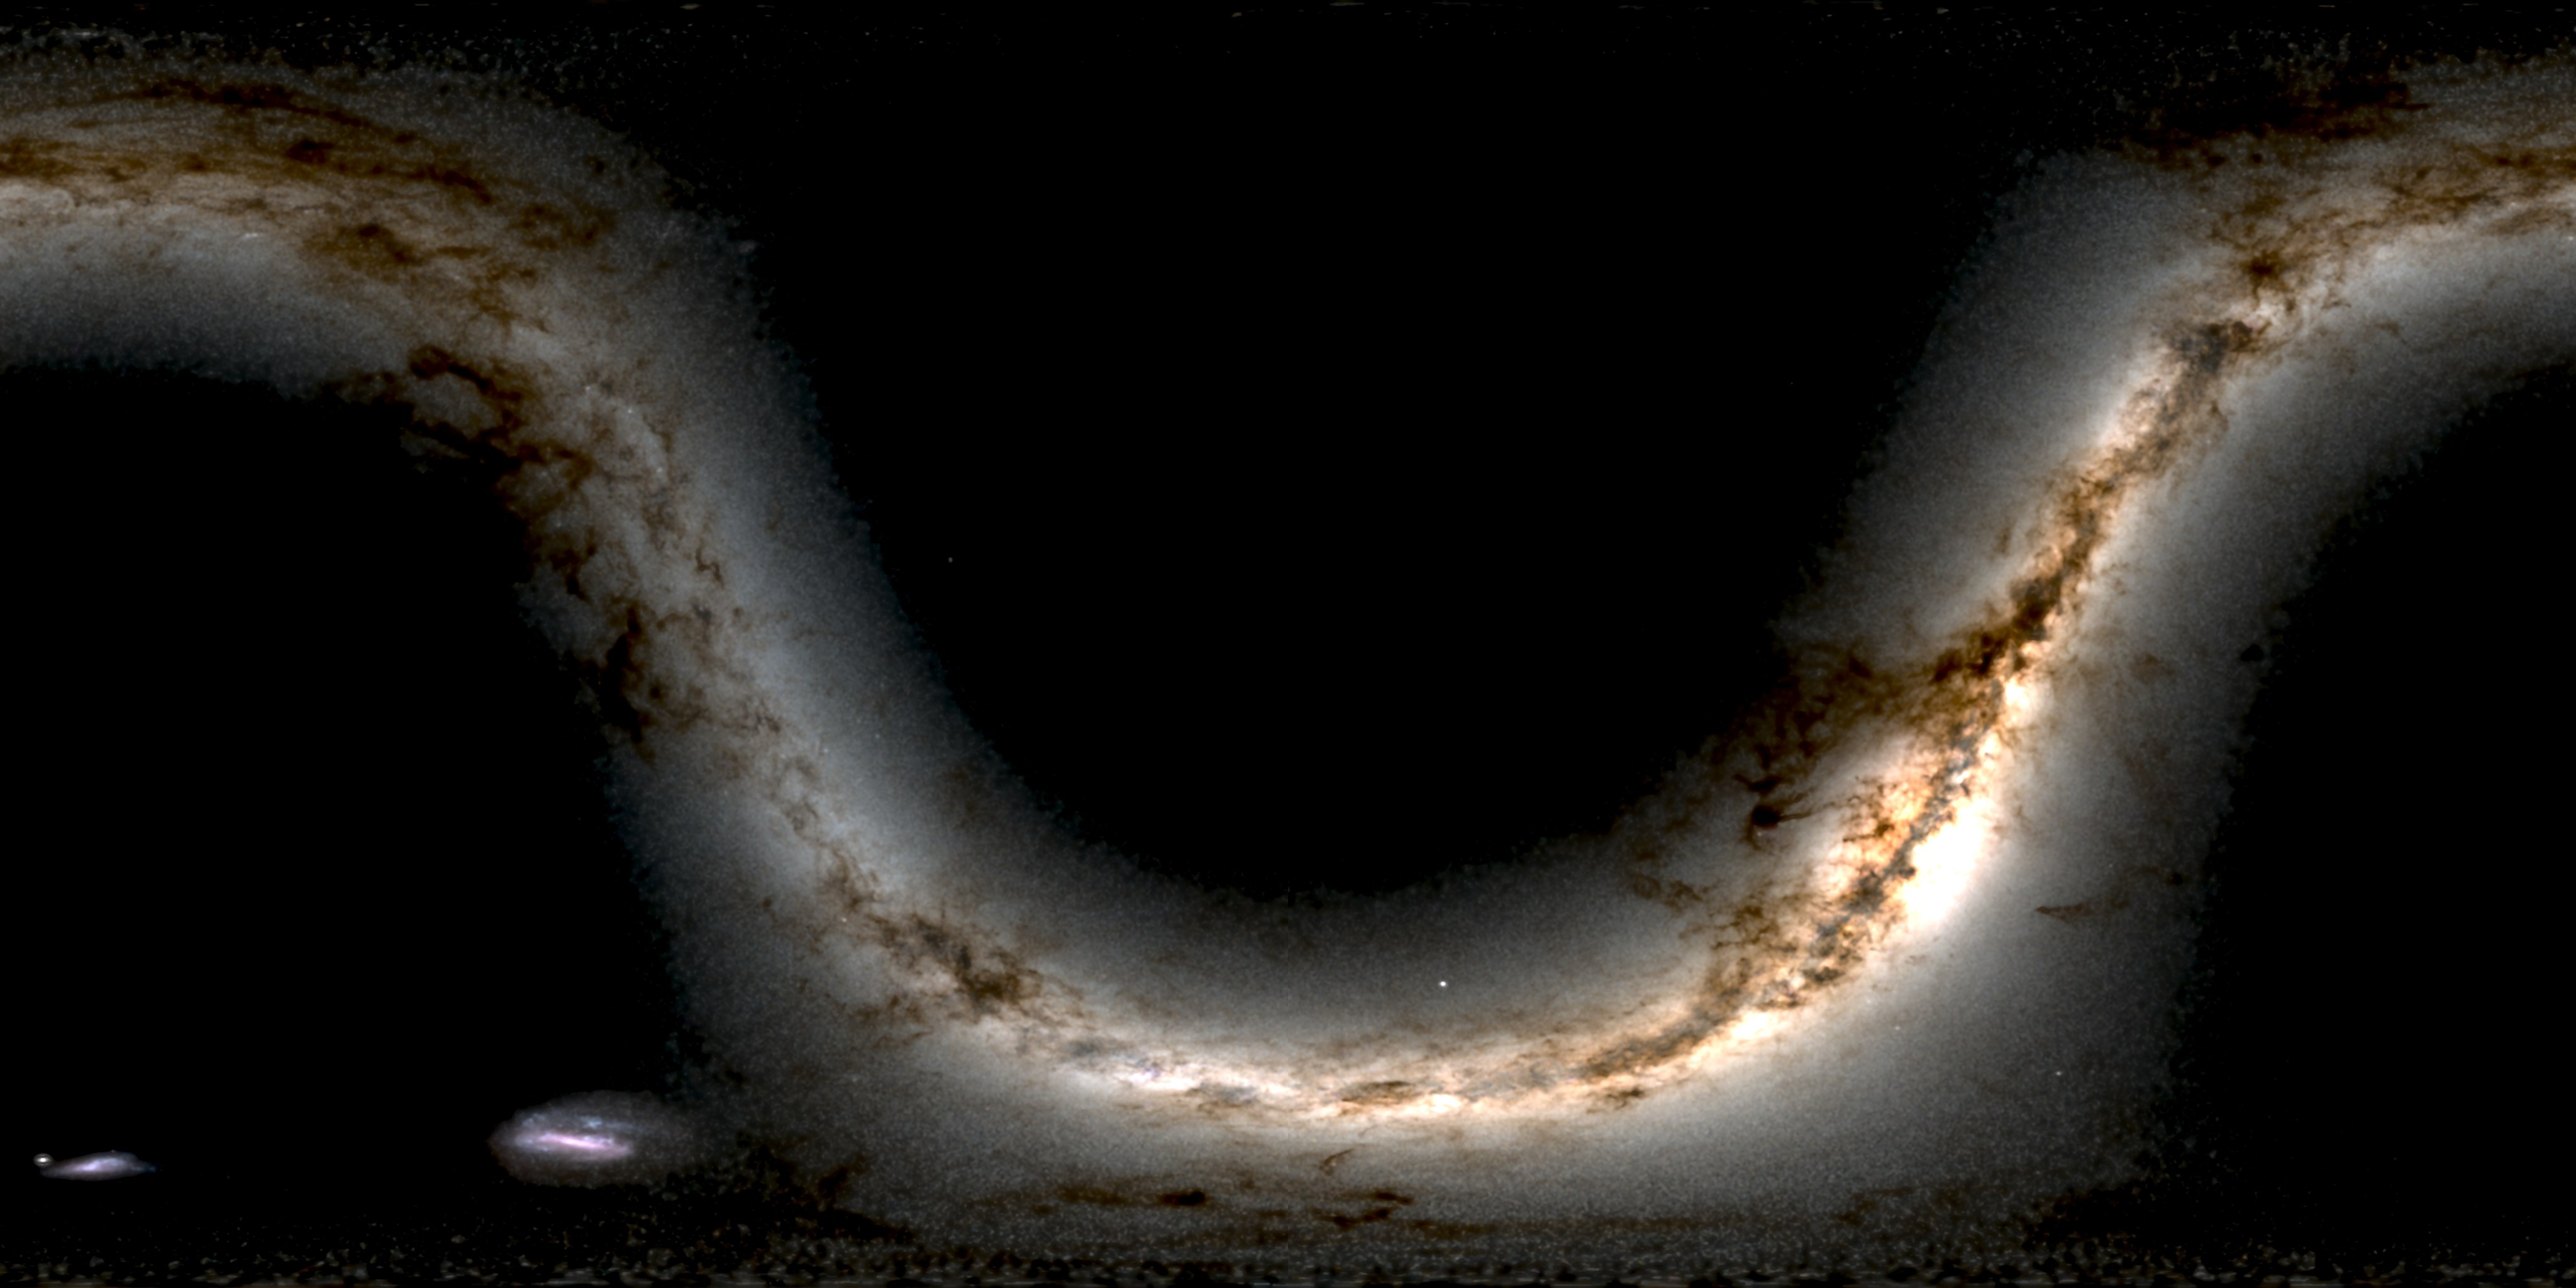
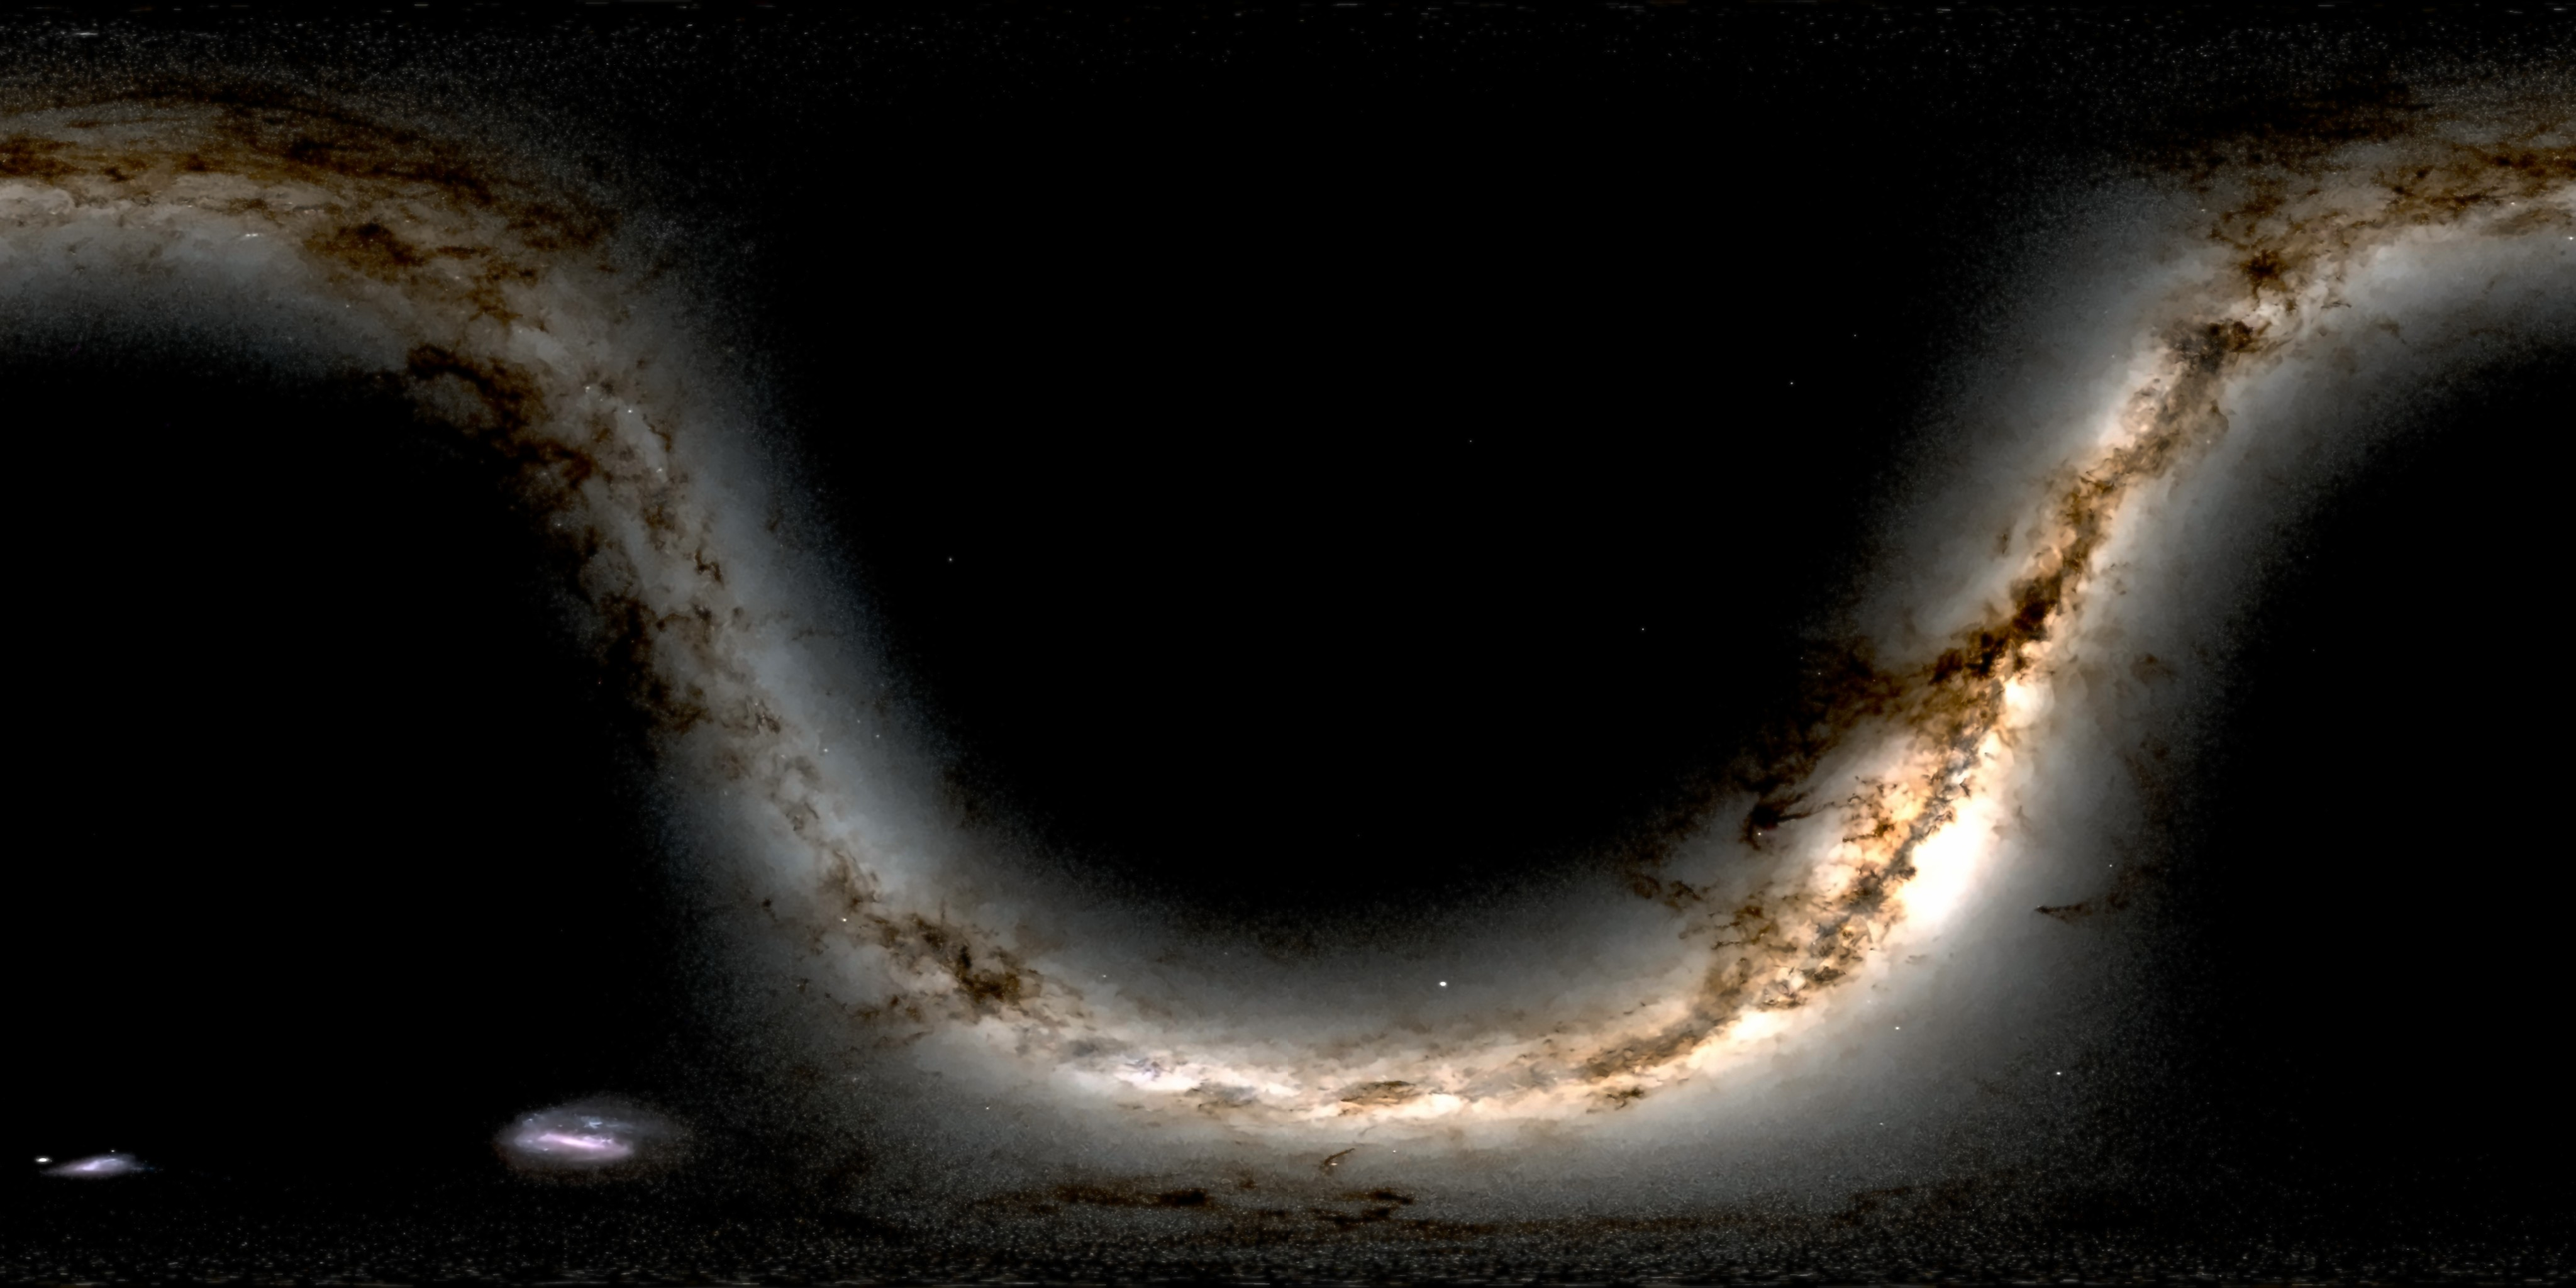
new background

diff --git a/index.html b/index.html
@@ -68,7 +68,7 @@ body:not([data-tab=cosmos]) :is(#sky,#ctl,#hint){display:none}
 <header><div><h1>the autobiography of light</h1><p class="by">photos by <a href="https://www.instagram.com/the.autobiography.of.light/" target="_blank" rel="noopener noreferrer" title="the.autobiography.of.light on Instagram">Christos Kyratsous</a></p></div>
 <nav><button id="t-cosmos" aria-current="true">Cosmos</button><button id="t-gallery">Gallery</button></nav></header>
 <canvas id="sky" aria-label="Interactive map of the cosmos with astrophotographs"></canvas>
-<div id="ctl"><label><input type="checkbox" id="o-photos" checked>Photos</label><label><input type="checkbox" id="o-lines" checked>Constellations</label><label><input type="checkbox" id="o-names" checked>Names</label><label><input type="checkbox" id="o-grid">Grid</label><button id="reset">Reset view</button></div>
+<div id="ctl"><label><input type="checkbox" id="o-photos" checked>Photos</label><label><input type="checkbox" id="o-lines" checked>Constellations</label><label><input type="checkbox" id="o-names" checked>Names</label><label><input type="checkbox" id="o-grid" checked>Grid</label><button id="reset">Reset view</button></div>
 <div id="hint">Drag to look around, scroll or pinch to zoom, click a photograph.</div>
 <div id="tip"></div><div id="pick"></div>
 <main id="gal"><div class="search"><input type="search" id="q" placeholder="Search by name, object, place, telescope or story" aria-label="Search photographs" autocomplete="off" spellcheck="false"></div><div class="bar"><span id="count"></span><span class="filters">
@@ -79,10 +79,10 @@ body:not([data-tab=cosmos]) :is(#sky,#ctl,#hint){display:none}
 <p class="credit">Milky Way: NASA Scientific Visualization Studio, Deep Star Maps 2020. Stars and constellation figures: d3-celestial by Olaf Frohn (BSD-3-Clause). Object types and Messier and Caldwell numbers: OpenNGC (CC-BY-SA 4.0). Coordinates are J2000.</p></main>
 <div id="lb" role="dialog" aria-modal="true" aria-label="Photograph"><div class="pic"><div id="lb-img" role="img"></div></div><aside id="lb-info"></aside></div>
 <script>
-const V='5',D=Math.PI/180,$=s=>document.querySelector(s),SERIF='"Iowan Old Style","Palatino Linotype",Palatino,Georgia,serif',MIN=58;
+const V='6',D=Math.PI/180,$=s=>document.querySelector(s),SERIF='"Iowan Old Style","Palatino Linotype",Palatino,Georgia,serif',MIN=58;
 const cv=$('#sky'),ctx=cv.getContext('2d'),ptrs=new Map(),imgs={},calm=matchMedia('(prefers-reduced-motion:reduce)').matches;
 let sky,cat=[],W,H,R,dpr=1,s0,c0,hits=[],drag=null,pd=0,lbItem=null;
-const view={ra:300,dec:35,fov:100},home={...view},opts={photos:true,lines:true,names:true,grid:false},clamp=(v,a,b)=>Math.max(a,Math.min(b,v));
+const view={ra:300,dec:35,fov:100},home={...view},opts={photos:true,lines:true,names:true,grid:true},clamp=(v,a,b)=>Math.max(a,Math.min(b,v));
 const esc=s=>String(Array.isArray(s)?s.join(', '):s??'').replace(/[&<>"]/g,c=>({'&':'&amp;','<':'&lt;','>':'&gt;','"':'&quot;'}[c]));
 const U=(e,k)=>e[k]+(e.v?'?v='+e.v:'');
 function img(u){let i=imgs[u];if(!i){i=imgs[u]=new Image();i.onload=draw;i.src=u}return i.complete&&i.naturalWidth?i:null}
@@ -90,12 +90,14 @@ function img(u){let i=imgs[u];if(!i){i=imgs[u]=new Image();i.onload=draw;i.src=u
 function P(ra,dec){const dl=(ra-view.ra)*D,p=dec*D,cp=Math.cos(p),sp=Math.sin(p),cd=Math.cos(dl),den=1+s0*sp+c0*cp*cd;
  if(den<.2)return null;const k=2*R/den;return[W/2-k*cp*Math.sin(dl),H/2-k*(c0*sp-s0*cp*cd)]}
 function path(rings){for(const ring of rings){let pen=false;for(const[a,b]of ring){const p=P(a,b);if(!p){pen=false;continue}pen?ctx.lineTo(p[0],p[1]):ctx.moveTo(p[0],p[1]);pen=true}}}
-const MWG=1.0;let mwT,mwW,mwH,off,offc;const mwI=new Image();
-mwI.onload=()=>{const c=document.createElement('canvas');mwW=c.width=mwI.width;mwH=c.height=mwI.height;const x=c.getContext('2d');x.drawImage(mwI,0,0);mwT=x.getImageData(0,0,mwW,mwH).data;draw()};mwI.src='data/milkyway.jpg?v='+V;
+const MWG=1.0;let mwT,mwW,mwH,hq=false,hqT=0;const offs=[];const mwI=new Image();
+mwI.onload=()=>{mwW=mwI.width;mwH=mwI.height;const sw=1024,c=document.createElement('canvas'),x=c.getContext('2d',{willReadFrequently:true}),T=new Uint8ClampedArray(mwW*mwH*4);
+ for(let x0=0;x0<mwW;x0+=sw){const w=Math.min(sw,mwW-x0);c.width=w;c.height=mwH;x.drawImage(mwI,x0,0,w,mwH,0,0,w,mwH);const d=x.getImageData(0,0,w,mwH).data;for(let y=0;y<mwH;y++)T.set(d.subarray(y*w*4,(y+1)*w*4),(y*mwW+x0)*4)}
+ mwT=T;draw()};mwI.src='data/milkyway.jpg?v='+V;
 // Draws the Milky Way photograph by inverting the projection for every pixel (rendered at low resolution, then scaled up).
-function drawMW(){if(!mwT)return;const sc=.4,w=Math.ceil(W*sc),h=Math.ceil(H*sc);
- if(!off||off.width!=w||off.height!=h){off=document.createElement('canvas');off.width=w;off.height=h;offc=off.getContext('2d')}
- const id=offc.createImageData(w,h),o=id.data,bil=view.fov<40;let n=0;
+function drawMW(){if(!mwT)return;const sc=hq?clamp(Math.sqrt(1.6e6/(W*H)),.4,.9):.4,w=Math.ceil(W*sc),h=Math.ceil(H*sc),ki=hq?1:0;
+ let off=offs[ki];if(!off||off.width!=w||off.height!=h){off=offs[ki]=document.createElement('canvas');off.width=w;off.height=h}const offc=off.getContext('2d');
+ const id=offc.createImageData(w,h),o=id.data,bil=hq||view.fov<40;let n=0;
  for(let j=0;j<h;j++){const eta=H/2-(j+.5)/sc;for(let i=0;i<w;i++,n+=4){const xi=W/2-(i+.5)/sc,rho=Math.hypot(xi,eta),c=2*Math.atan(rho/(2*R)),sc_=Math.sin(c),cc=Math.cos(c);
   const ph=Math.asin(clamp(cc*s0+(rho?eta*sc_*c0/rho:0),-1,1)),dl=Math.atan2(xi*sc_,rho*c0*cc-eta*s0*sc_);
   const ra=((view.ra+dl/D)%360+360)%360;o[n+3]=255;
@@ -113,6 +115,7 @@ function drawMarker(e,x,y,badge,label){const ar=e.width_deg/e.height_deg,mw=ar>=
  return Math.max(mw,mh)/2+4}
 function draw(){
  if(!sky||!W)return;ctx.setTransform(dpr,0,0,dpr,0,0);
+ if(!hq){clearTimeout(hqT);hqT=setTimeout(()=>{if(document.body.dataset.tab=='cosmos'){hq=true;try{draw()}finally{hq=false}}},250)}   // idle: redraw the Milky Way at higher quality
  const g=ctx.createRadialGradient(W/2,H/2,0,W/2,H/2,Math.max(W,H)*.7);g.addColorStop(0,'#0a1020');g.addColorStop(1,'#03050a');ctx.fillStyle=g;ctx.fillRect(0,0,W,H);
  s0=Math.sin(view.dec*D);c0=Math.cos(view.dec*D);R=Math.min(W,H)/(4*Math.tan(view.fov*D/4));
  drawMW();

diff --git a/README.md b/README.md
@@ -275,7 +275,7 @@ Serving a static site is mostly reading, which SD cards handle fine. Failures co
 The site discourages casual saving: no right-click menu or dragging on photos, and the large view is a background image rather than a normal image. This cannot stop determined people, because any image a browser shows can be saved with developer tools or a screenshot. The practical protections are showing a smaller copy (use `--max-size 1600`), and adding a watermark (ask Claude to add this option). The website only ever contains the resized copies, never your originals.
 
 ## Using the site
-**Cosmos tab.** Drag to look around, scroll or pinch to zoom, and click a photograph to open its details. The checkboxes at the bottom left switch Photos, Constellations, Names and Grid on and off (turn Photos off to read the constellation names behind them), and "Reset view" returns to the start. In the photo details, "Show on cosmos" flies to the photo's position.
+**Cosmos tab.** Drag to look around, scroll or pinch to zoom, and click a photograph to open its details. The checkboxes at the bottom left switch Photos, Constellations, Names and Grid on and off (the grid starts switched on) (turn Photos off to read the constellation names behind them), and "Reset view" returns to the start. In the photo details, "Show on cosmos" flies to the photo's position.
 
 **Gallery tab.** The search box at the top filters as you type: it looks at the title, designation, object type, location, telescope, filters, constellation, date, wiki text and distance, and understands catalog numbers such as `m31` or `caldwell 20`. It works together with the Catalog and Type filters and the Sort menu (including closest first by distance and by catalog number).
 
@@ -286,6 +286,9 @@ The site discourages casual saving: no right-click menu or dragging on photos, a
 ## 9. In the Cosmos tab: many photos close together
 Photos too small to show at true size appear as thumbnails. Neighbouring thumbnails merge into one marker with a count badge. Clicking it zooms in to separate different objects, or opens a list when the photos are of the same object. Zoomed in, photos are drawn at their real size and rotation, and clicking where several overlap opens the same list.
 
+## Changing the Milky Way image
+Two ready-made versions of `data/milkyway.jpg` exist: option A (4096x2048, about 0.7 MB) and option B (6144x3072, about 1.3 MB, more detail but about twice the memory in the browser, roughly 75 MB). To switch, copy the one you want into the `data` folder, name it exactly `milkyway.jpg` (replacing the old one), and push. To make visitors and your own browser pick up the new image immediately, also change `const V='6'` in `index.html` to a new value such as `'7'`. Test option B on your phone before publishing it: if the Milky Way background disappears there, go back to option A. When you stop moving, the page redraws the Milky Way at a higher quality, so it looks sharper at rest than while dragging.
+
 ## Wiki text and credits
 Crediting a source does not give you permission to copy it. Text on websites such as Telescopius is normally protected by copyright, and I could not find their terms of use to check what reuse they allow. The safest approach is to use such pages as reference and write the wiki text in your own words, or to ask the site for permission. Facts such as distances and sizes are free to use; the wording is what is protected. If you do adapt text that comes with a licence that allows it (Wikipedia text is CC BY-SA 4.0, which requires credit and that your adaptation is shared under the same licence), put the credit in the `story_credit` field and it appears under the wiki text. There is no need to add anything to the site-wide credits for the wiki text.
 
@@ -294,5 +297,5 @@ Browsers keep copies of files, which is why a refresh was needed while you teste
 
 ## Data credits
 - `data/sky.json` is derived from d3-celestial by Olaf Frohn (BSD-3-Clause, https://github.com/ofrohn/d3-celestial): about 41,000 stars down to magnitude 8, constellation lines and names. Fainter stars appear as you zoom in.
-- `data/milkyway.jpg` is made from the Milky Way background of Deep Star Maps 2020 by NASA's Scientific Visualization Studio (https://svs.gsfc.nasa.gov/4851), tone-mapped and resized to 4096x2048 with RA 0h at the left edge.
+- `data/milkyway.jpg` is made from the Milky Way background of Deep Star Maps 2020 by NASA's Scientific Visualization Studio (https://svs.gsfc.nasa.gov/4851), tone-mapped, cleaned of faint-star grain and resized (4096x2048 or 6144x3072, see "Changing the Milky Way image") with RA 0h at the left edge.
 - `tools/catalog.json` is derived from OpenNGC by Mattia Verga (CC-BY-SA 4.0, https://github.com/mattiaverga/OpenNGC): object types and Messier and Caldwell numbers.
